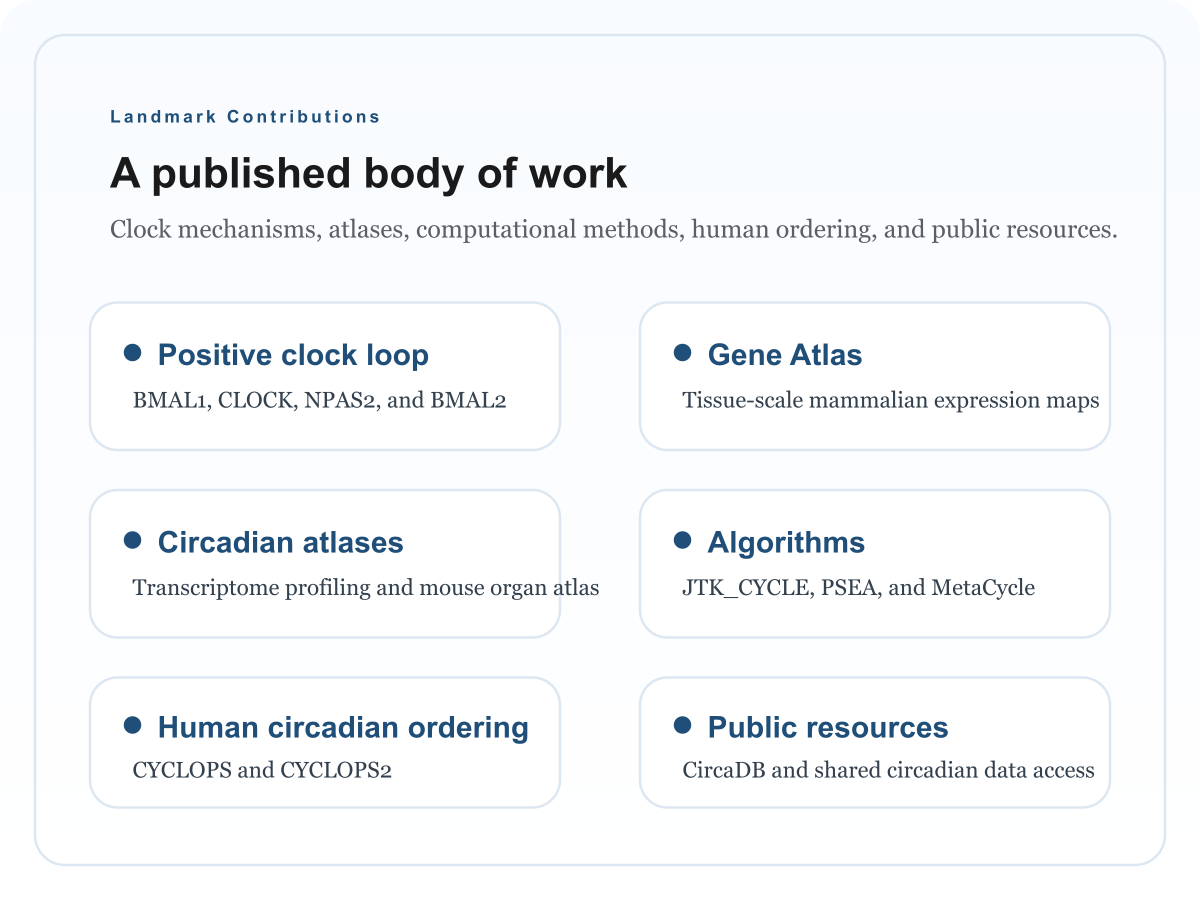
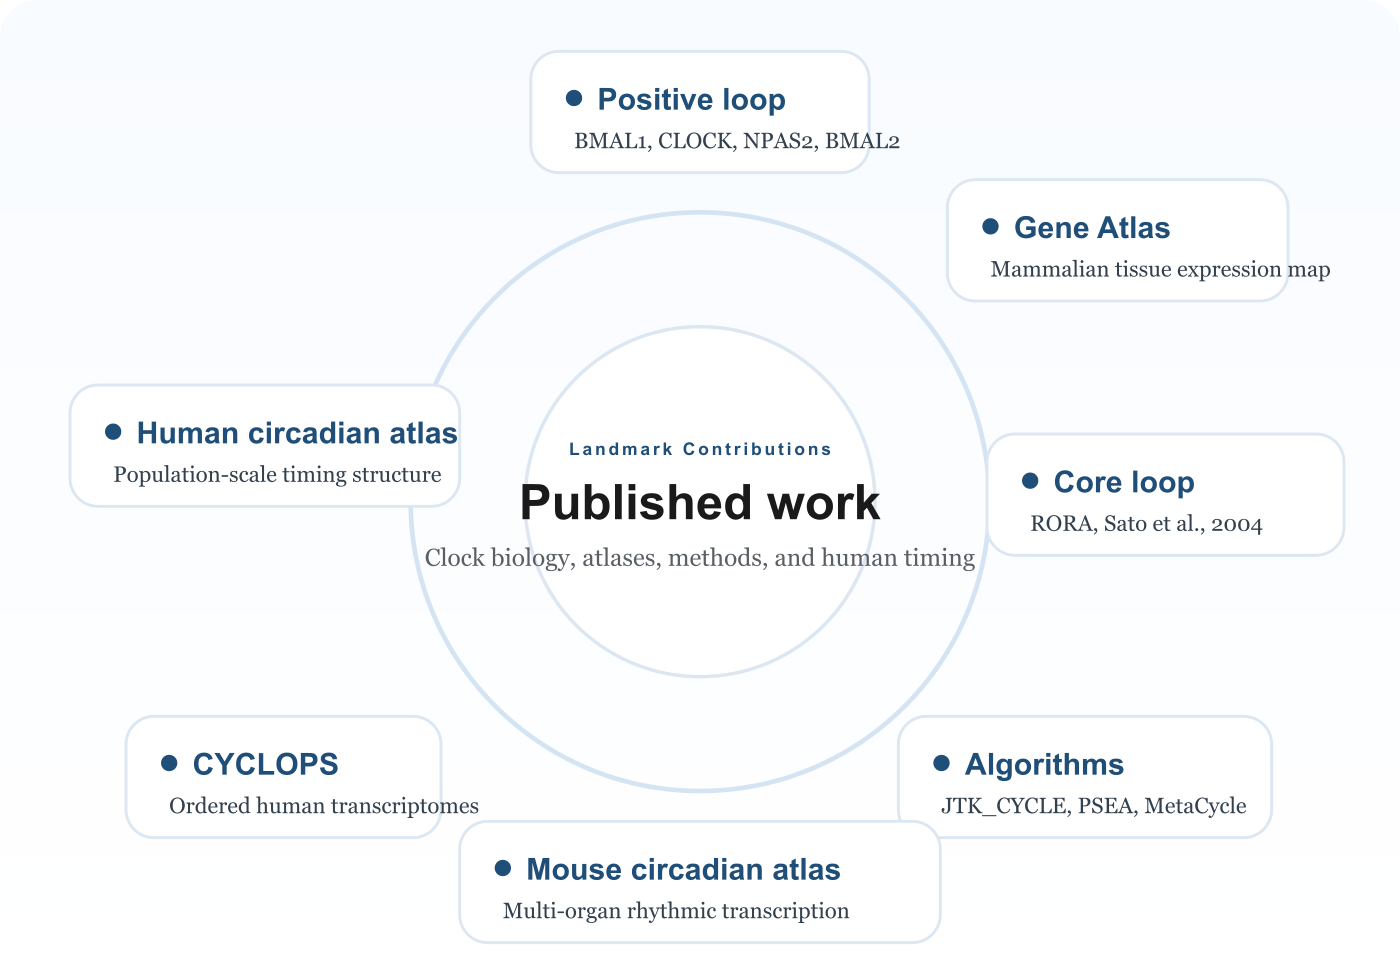
Refine homepage landmark contributions circle graphic

diff --git a/index.html b/index.html
@@ -19,14 +19,14 @@ circadian biology, systems biology, and circadian medicine, with
 landmark contributions in molecular clocks, functional genomics,
 algorithms, and public resources.">
   <meta property="og:url" content="https://hogeneschlab.org/">
-  <meta property="og:image" content="https://hogeneschlab.org/assets/images/landmark-contributions-map.png?v=20260311-2">
+  <meta property="og:image" content="https://hogeneschlab.org/assets/images/landmark-contributions-map.png?v=20260311-3">
   <meta name="twitter:card" content="summary_large_image">
   <meta name="twitter:title" content="Hogenesch Lab">
   <meta name="twitter:description" content="Hogenesch Lab studies
 circadian biology, systems biology, and circadian medicine, with
 landmark contributions in molecular clocks, functional genomics,
 algorithms, and public resources.">
-  <meta name="twitter:image" content="https://hogeneschlab.org/assets/images/landmark-contributions-map.png?v=20260311-2">
+  <meta name="twitter:image" content="https://hogeneschlab.org/assets/images/landmark-contributions-map.png?v=20260311-3">
   <link rel="stylesheet" href="styles.css?v=20260310-1">
 </head>
 <body>
@@ -127,7 +127,7 @@ Creation of CircaDB as a public circadian gene-expression resource.
 </ul>
 </div>
 <figure class="feature-figure">
-<img src="assets/images/landmark-contributions-map.svg?v=20260311-2" alt="Conceptual map showing the lab's landmark contributions across clock biology, atlases, algorithms, human ordering, and public resources." />
+<img src="assets/images/landmark-contributions-map.svg?v=20260311-3" alt="Conceptual map showing the lab's landmark contributions across clock biology, atlases, algorithms, human ordering, and public resources." />
 <figcaption>
 A neutral view of the lab’s major contributions across molecular clock
 biology, atlas-scale genomics, computational methods, and public

diff --git a/page-template.html b/page-template.html
@@ -13,11 +13,11 @@
   <meta property="og:title" content="$if(seo_title)$$seo_title$$else$$title$ | Hogenesch Lab$endif$">
   <meta property="og:description" content="$if(description)$$description$$else$Hogenesch Lab studies circadian biology, systems biology, and circadian medicine across clocks, transcriptomes, and public resources.$endif$">
   <meta property="og:url" content="$if(canonical)$$canonical$$else$https://hogeneschlab.org$permalink$$endif$">
-  <meta property="og:image" content="https://hogeneschlab.org/assets/images/landmark-contributions-map.png?v=20260311-2">
+  <meta property="og:image" content="https://hogeneschlab.org/assets/images/landmark-contributions-map.png?v=20260311-3">
   <meta name="twitter:card" content="summary_large_image">
   <meta name="twitter:title" content="$if(seo_title)$$seo_title$$else$$title$ | Hogenesch Lab$endif$">
   <meta name="twitter:description" content="$if(description)$$description$$else$Hogenesch Lab studies circadian biology, systems biology, and circadian medicine across clocks, transcriptomes, and public resources.$endif$">
-  <meta name="twitter:image" content="https://hogeneschlab.org/assets/images/landmark-contributions-map.png?v=20260311-2">
+  <meta name="twitter:image" content="https://hogeneschlab.org/assets/images/landmark-contributions-map.png?v=20260311-3">
   <link rel="stylesheet" href="styles.css?v=20260310-1">
 </head>
 <body>

diff --git a/index.md b/index.md
@@ -67,7 +67,7 @@ description: Hogenesch Lab studies circadian biology, systems biology, and circa
 </ul>
 </div>
 <figure class="feature-figure">
-<img src="assets/images/landmark-contributions-map.svg?v=20260311-2" alt="Conceptual map showing the lab's landmark contributions across clock biology, atlases, algorithms, human ordering, and public resources." />
+<img src="assets/images/landmark-contributions-map.svg?v=20260311-3" alt="Conceptual map showing the lab's landmark contributions across clock biology, atlases, algorithms, human ordering, and public resources." />
 <figcaption>A neutral view of the lab's major contributions across molecular clock biology, atlas-scale genomics, computational methods, and public resources.</figcaption>
 </figure>
 </div>
